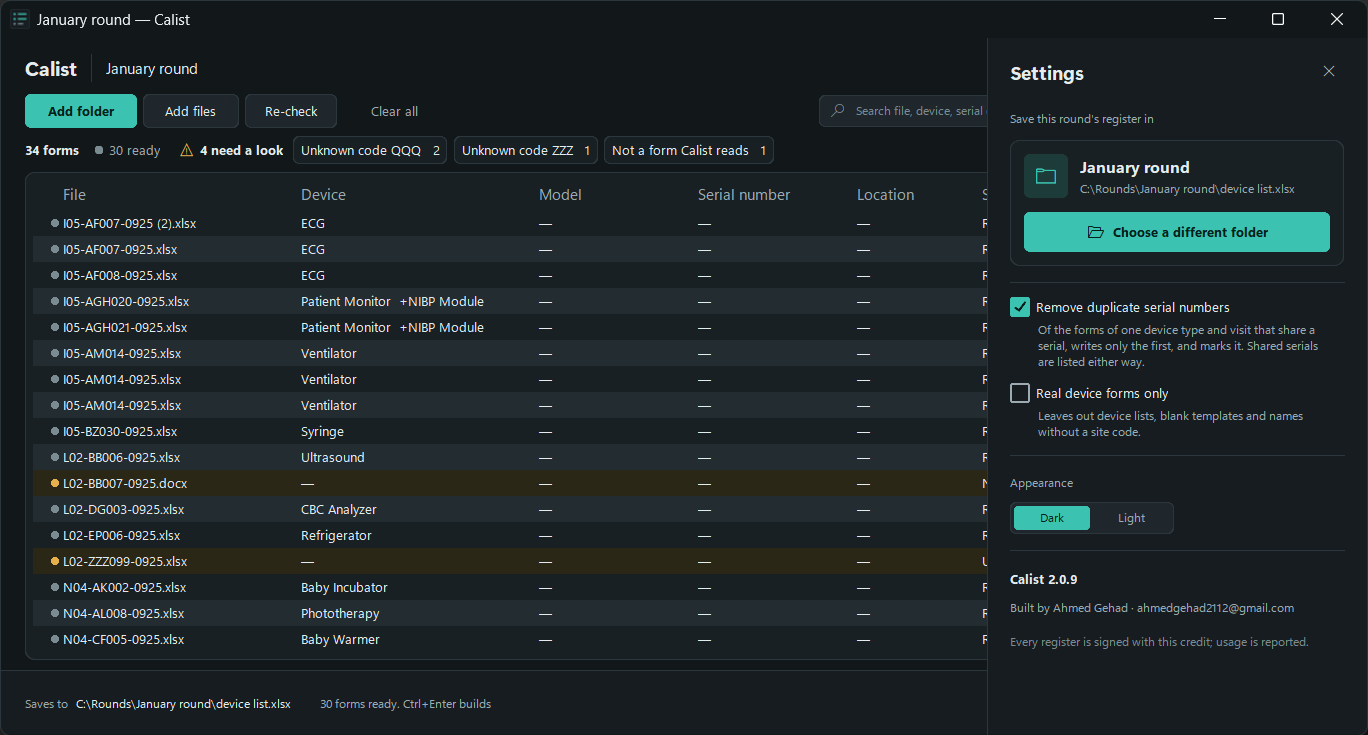
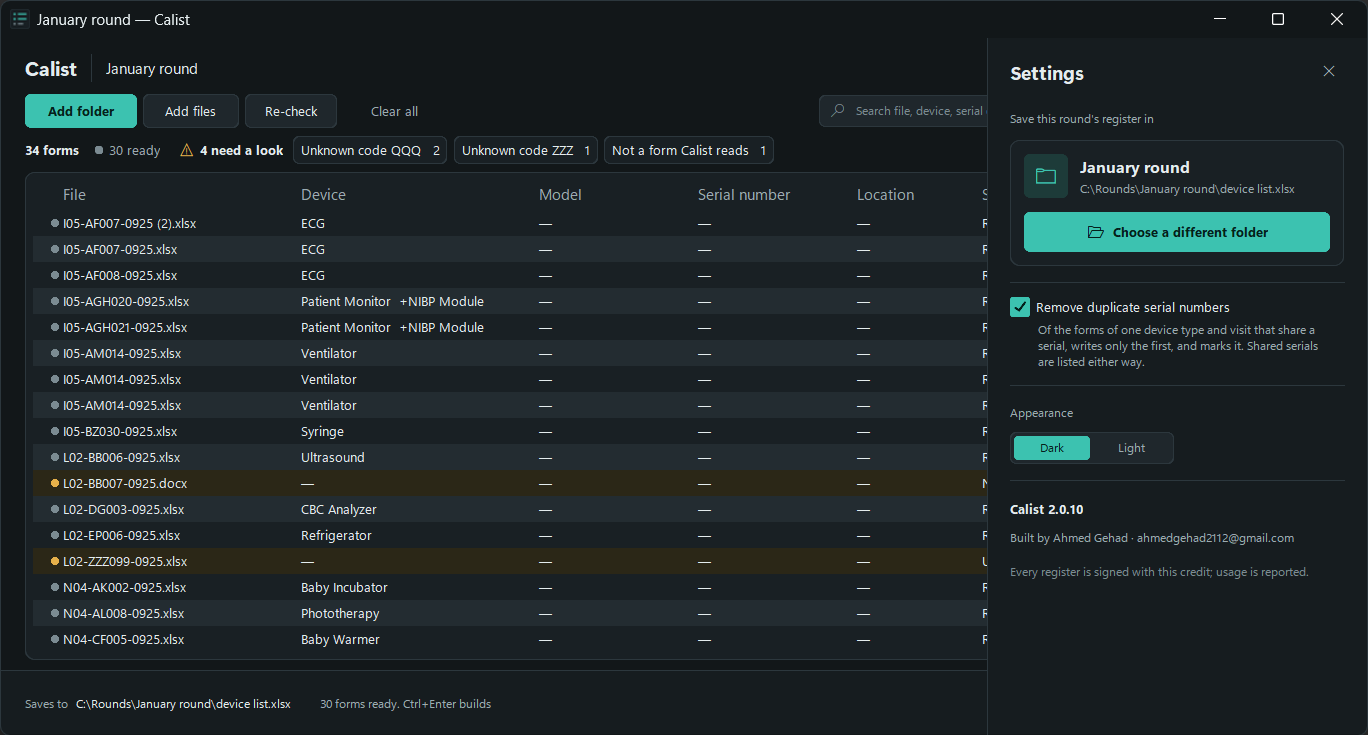
Manual for 2.0.10: Calist says when an update is ready, and Update now installs it
The Updates section describes the question Calist asks when an update is
ready (Update now or Later), the strip in Settings and the note after an
update, with a screenshot of the question. Settings loses Real device forms
only, which is always on now; About says whether Calist is up to date.

Changed region(s): [[0.7368, 0.5088, 0.9518, 0.8381], [0.7368, 0.868, 0.9518, 0.898]]

diff --git a/README.md b/README.md
@@ -52,8 +52,8 @@ The register template is built in, so there is nothing to set up.
 3. Leave the desktop shortcut ticked if you want one. Calist installs and opens.
 
 You'll find Calist in the Start menu afterwards. It installs into your own user folder, so other
-people on the same PC aren't affected. From then on it keeps itself up to date, automatically and
-silently: see [Updates](#12-updates).
+people on the same PC aren't affected. From then on it keeps itself up to date: see
+[Updates](#12-updates).
 
 > **If your antivirus blocks the installer**, your IT department can allow it by its checksum. Each
 > release lists it in `SHA256SUMS.txt`, and `Get-FileHash .\Calist-setup.exe -Algorithm SHA256` in
@@ -259,9 +259,8 @@ means, and what to do:
 | **Left out: same serial as …** | With *Remove duplicate serial numbers* on: a later form of the same device and visit gives the same serial, so only the first is written. | Check it really is the same device. The kept row's serial names the file that was left out. |
 | **Left out: another version is in …** | With *Remove duplicate serial numbers* on: the same form is saved in two folders, and only one is written. | Keep the right one, move or delete the other, then build again. |
 
-With **Real device forms only** on (in Settings), device lists, blank templates and names without a
-site code don't appear in the table at all. **Details** lists each one, with the reason it was left
-out.
+Device lists, blank templates and files named without a site code are never read: they don't
+appear in the table at all, and **Details** lists each one, with the reason it was left out.
 
 **Same serial**, picked as a chip, groups the forms under the serial they share, with each one's
 model and location, so you can tell a copied form from one device numbered twice:
@@ -354,17 +353,17 @@ Click **Settings** (top right, or <kbd>Ctrl</kbd>+<kbd>,</kbd>).
 <div align="center">
 <picture>
   <source media="(prefers-color-scheme: dark)" srcset="images/screen-settings-dark.png">
-  <img src="images/screen-settings-light.png" alt="The Settings drawer: a card showing the folder this round's register is saved in, with a Choose a different folder button; the options Remove duplicate serial numbers and Real device forms only, Appearance Dark or Light, and About." width="860">
+  <img src="images/screen-settings-light.png" alt="The Settings drawer: a card showing the folder this round's register is saved in, with a Choose a different folder button; the option Remove duplicate serial numbers, Appearance Dark or Light, and About." width="860">
 </picture>
 </div>
 
 | Setting | What it does |
 |---|---|
+| **Update now** | Only while a new version is ready, at the top. Installs it now: Calist closes for about 20 seconds and opens again with your forms. |
 | **Save this round's register in** | A card shows the folder the register is saved in, with its full path, and says so if a register already there will be replaced. Click **Choose a different folder** to save this round's register somewhere else. It's for **this round only**: the next round goes back to its own folder. *Use the round's folder* undoes it. |
 | **Remove duplicate serial numbers** | Off by default. When two forms of one device type and visit share a serial, it writes only the first and marks it. Shared serials are listed either way. |
-| **Real device forms only** | Off by default. Leaves out device lists, blank templates and names without a site code, and lists each one under Details with its reason. |
 | **Appearance** | Dark or Light. |
-| **About** | Your Calist version. |
+| **About** | Your Calist version, and whether it's up to date. |
 
 Calist remembers your settings between sessions (all except the save folder, which is for one round).
 
@@ -394,7 +393,7 @@ shows it's on.
 | <kbd>F5</kbd> | Re-check every folder and file again |
 | <kbd>Ctrl</kbd>+<kbd>Enter</kbd> | Build the register, or open it once it's built |
 | <kbd>Ctrl</kbd>+<kbd>,</kbd> | Settings |
-| <kbd>Esc</kbd> | Back out one step: the card under Details after a build, then Settings, then a filter or search, then a running build |
+| <kbd>Esc</kbd> | Back out one step: the update question (Later), the card under Details after a build, then Settings, then a filter or search, then a running build |
 | <kbd>Delete</kbd> | Take the selected forms off the list |
 | <kbd>Tab</kbd>, <kbd>Enter</kbd>, <kbd>Space</kbd> | Reach and press every button from the keyboard |
 
@@ -402,19 +401,30 @@ shows it's on.
 
 ## 12. Updates
 
-**Calist updates itself, automatically and silently. There is nothing to download and nothing to
-press.**
+**Calist updates itself. There is nothing to download, and you never have to press anything — but
+when an update is ready, Calist tells you, and you can install it at once.**
 
 - When a new version is out, Calist fetches it in the background and checks it. Never while a
   register is being built.
-- It installs **when you close Calist**, without a window or a question, so the next time you open
-  it, it's the new version.
+- About a minute after Calist opens, it asks. **Update now** installs it straight away: Calist
+  closes for about 20 seconds and opens again with the forms you added. **Later** leaves it for
+  when you close Calist. While an update waits, **Settings** shows **Update now** at the top too.
+- If you don't press anything, it installs **when you close Calist**, without a window, so the next
+  time you open it, it's the new version.
 - If the PC was switched off with Calist open, the update installs the next time you start it,
   before the window opens.
+- After an update, Calist says **"Calist was updated to …"**, once.
 - An update can't leave you without a working Calist: if anything goes wrong, the version you had
-  simply opens.
+  simply opens, says why, and offers **Try again**.
 
-To see which version you have, open **Settings**: it's under About.
+<div align="center">
+<picture>
+  <source media="(prefers-color-scheme: dark)" srcset="images/screen-update-dark.png">
+  <img src="images/screen-update-light.png" alt="Calist asking about an update: the window dimmed, a card saying Calist 2.0.11 is ready, downloaded and checked, with Later and Update now." width="860">
+</picture>
+</div>
+
+To see which version you have and whether it's up to date, open **Settings**: it's under About.
 
 ---
 
